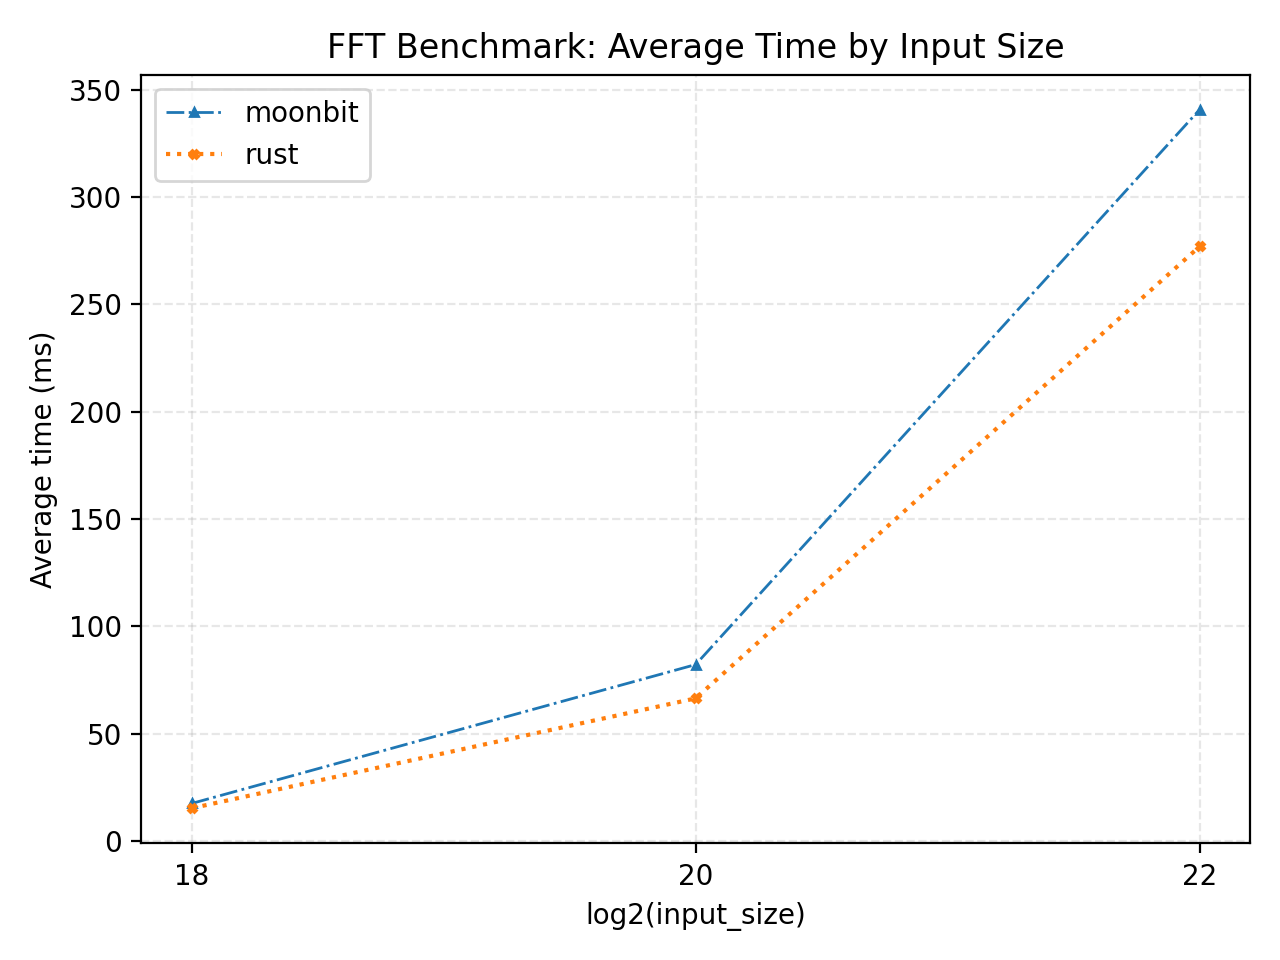
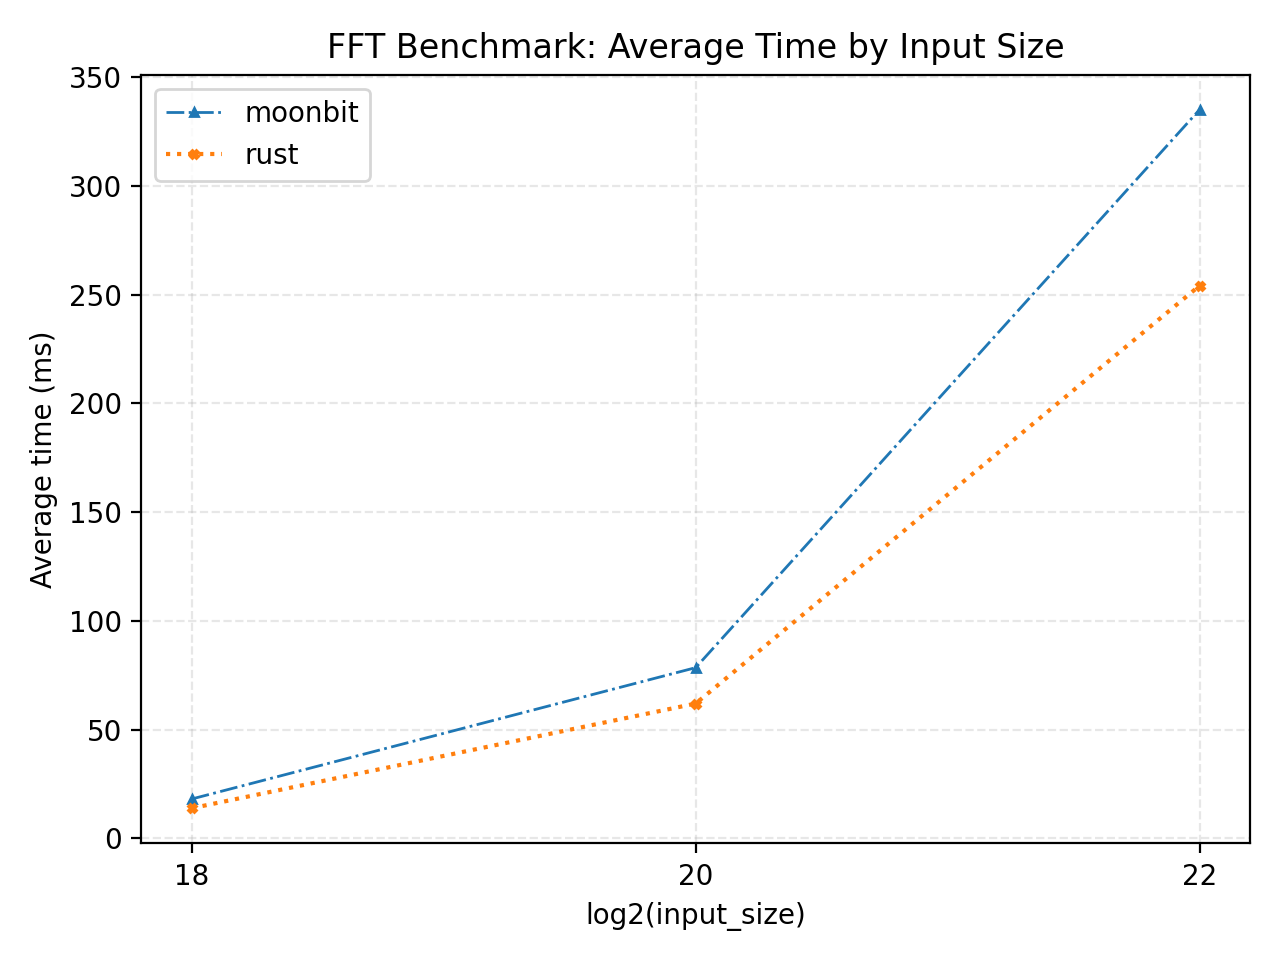
rust: multiversion

diff --git a/fft/rs/src/lib.rs b/fft/rs/src/lib.rs
@@ -2,6 +2,7 @@ use std::f64::consts::PI;
 
 use bumpalo::Bump;
 use bumpalo::collections::vec::Vec as BumpVec;
+use multiversion::multiversion;
 
 #[derive(Debug, Clone, Copy, PartialEq)]
 pub struct Complex {
@@ -60,6 +61,7 @@ impl std::ops::Mul<f64> for Complex {
 }
 
 pub fn fft(arr: &mut [Complex]) {
+    #[multiversion(targets = "simd")]
     fn _fft(arr: &mut [Complex], bump: &Bump) {
         let n = arr.len();
         if n == 1 {
